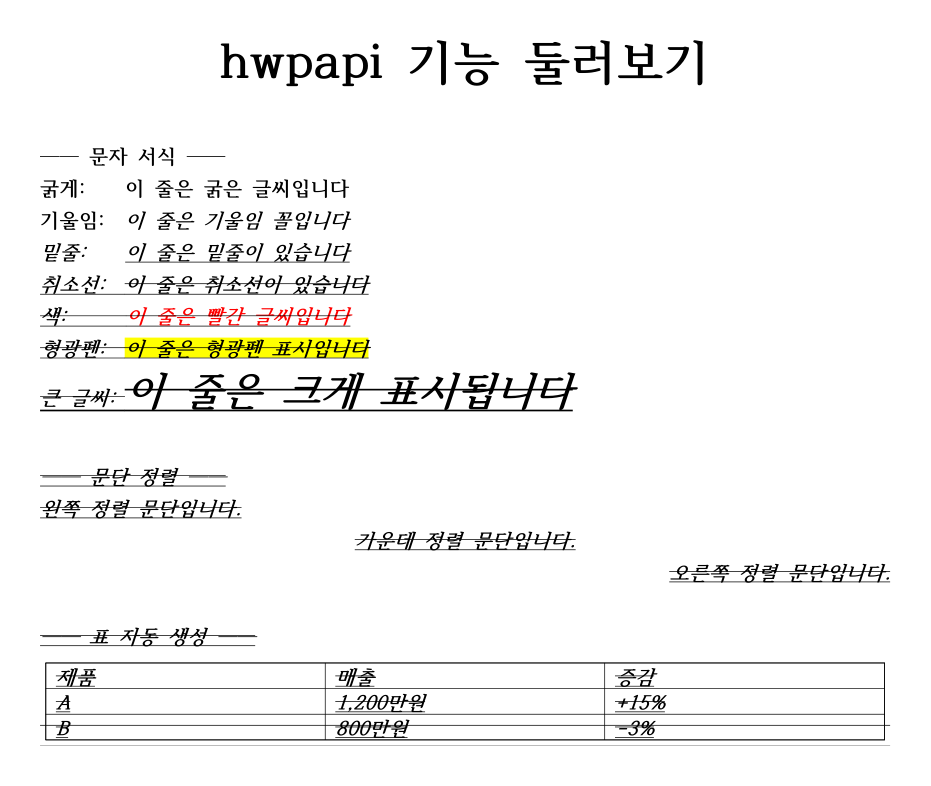
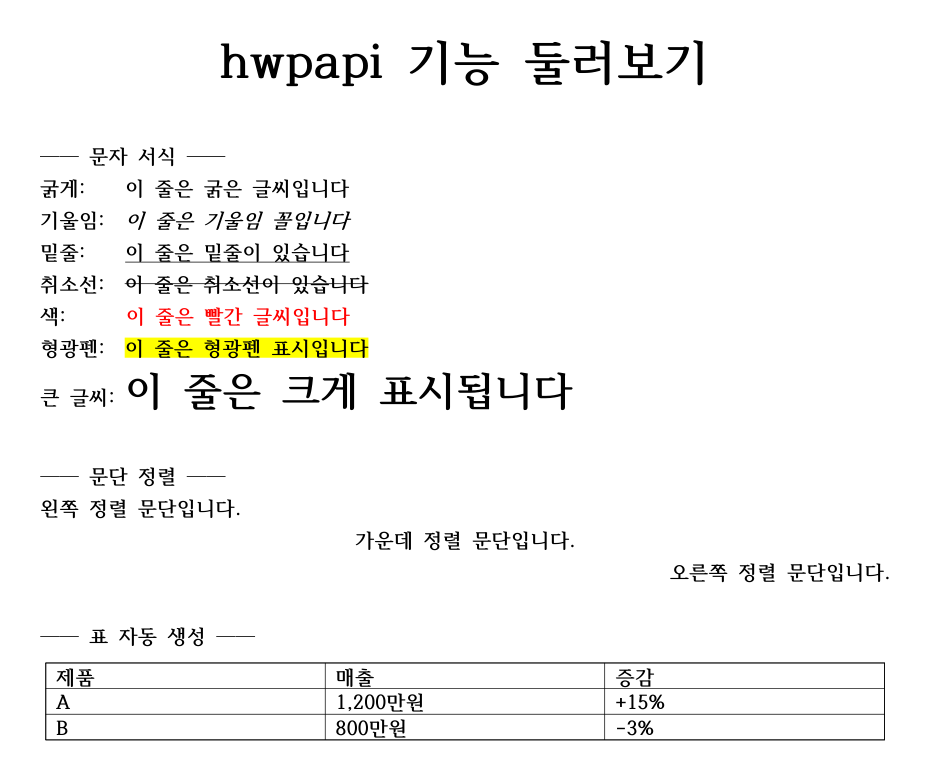
fix(styled_text): 서식 bleed 방지 — 적용한 fmt 를 명시적으로 OFF 복원
이전 동작:
- styled_text('텍스트', strike_out_type=1) 호출 시 '텍스트' 에만 취소선이
  적용돼야 하는데, 실제로는 이후 삽입되는 모든 문단/텍스트에 취소선이
  번짐. underline, bold, italic, text_color, shade_color 모두 같은 문제.

원인:
- snapshot/restore 패턴은 cursor 상태를 복원하지만, HWP 는 selection 에
  적용한 charshape 의 일부를 cursor 의 'last applied' 로 기억하여
  snapshot 이 명시적으로 지정하지 않은 속성은 재설정되지 않음.

해결:
- styled_text 마지막에 적용한 fmt 의 각 key 를 OFF 상태 (False/0/None)
  로 명시적 reset:
  * bold/italic/super/sub_script → False
  * underline_type/strike_out_type/outline_type → 0 (none)
  * *_color → None (제거)
  * height/spacing — 의도적으로 cascade 허용

결과 — feature_tour demo 에서:
- 취소선은 '이 줄은 취소선이 있습니다' 에만 적용
- 후속 '색:', '형광펜:', '큰 글씨:', 문단 정렬 문장, 표 내용 모두 기본 서식
- 표 내부 텍스트 전부 깨끗 (underline/strike 없음)

diff --git a/HwpApi/core/app.py b/HwpApi/core/app.py
@@ -2390,6 +2390,29 @@ class App:
             self.api.Run("MoveRight")
         # 6) RESTORE the snapshot — cursor char state == pre-block state
         self._restore_charshape(char_before)
+        # 7) Explicitly RESET any formatting attrs we applied so they don't
+        #    bleed into subsequent text. HWP keeps cursor's "last applied"
+        #    charshape after a selection is canceled, which overrides the
+        #    snapshot restore for unset (default) attributes.
+        if fmt:
+            reset_fmt = {}
+            for key in fmt.keys():
+                # Boolean / toggle attrs → reset to False
+                if key in ("bold", "italic", "super_script", "sub_script"):
+                    reset_fmt[key] = False
+                # Type-enum attrs → reset to 0 (none)
+                elif key in ("underline_type", "strike_out_type", "outline_type"):
+                    reset_fmt[key] = 0
+                # Color attrs → reset to None (removed)
+                elif key in ("text_color", "shade_color", "underline_color",
+                             "strike_out_color", "outline_color"):
+                    reset_fmt[key] = None
+                # Height/spacing — leave alone since user often wants size cascading
+            if reset_fmt:
+                try:
+                    self.set_charshape(**reset_fmt)
+                except Exception:
+                    pass
         return self  # Fluent — chain 가능 (v0.0.13+)
 
     def _snapshot_charshape(self):
